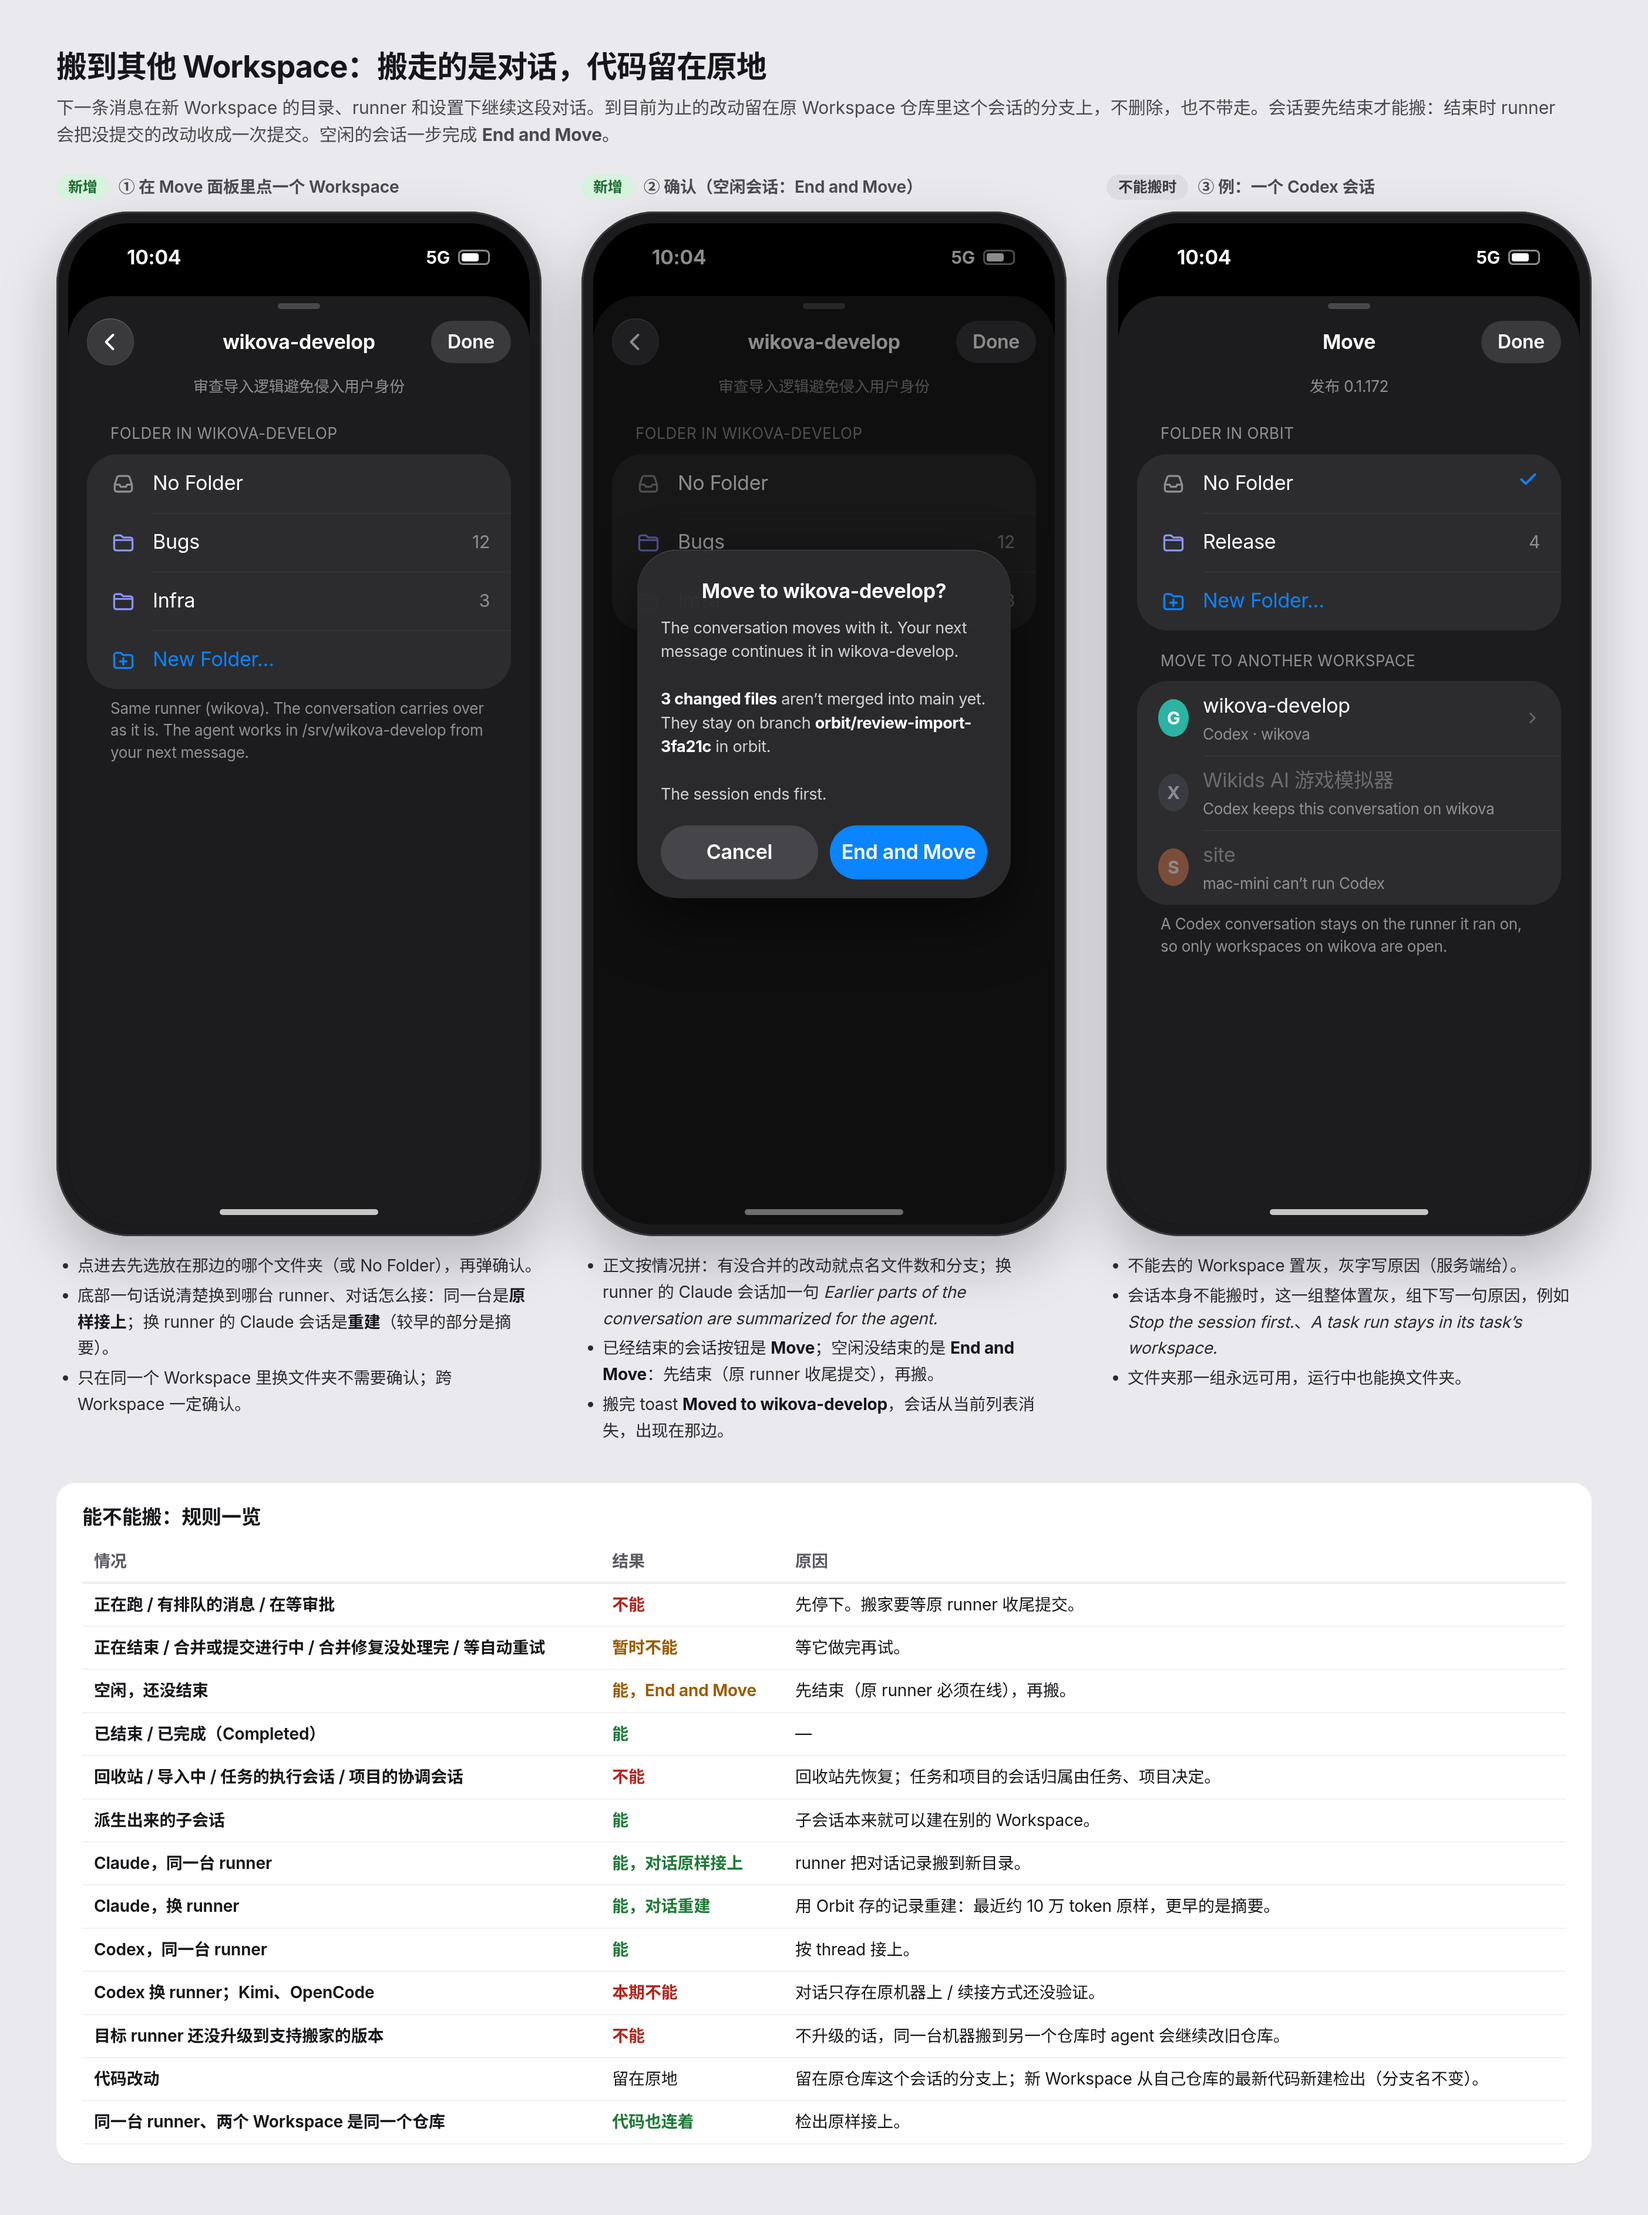
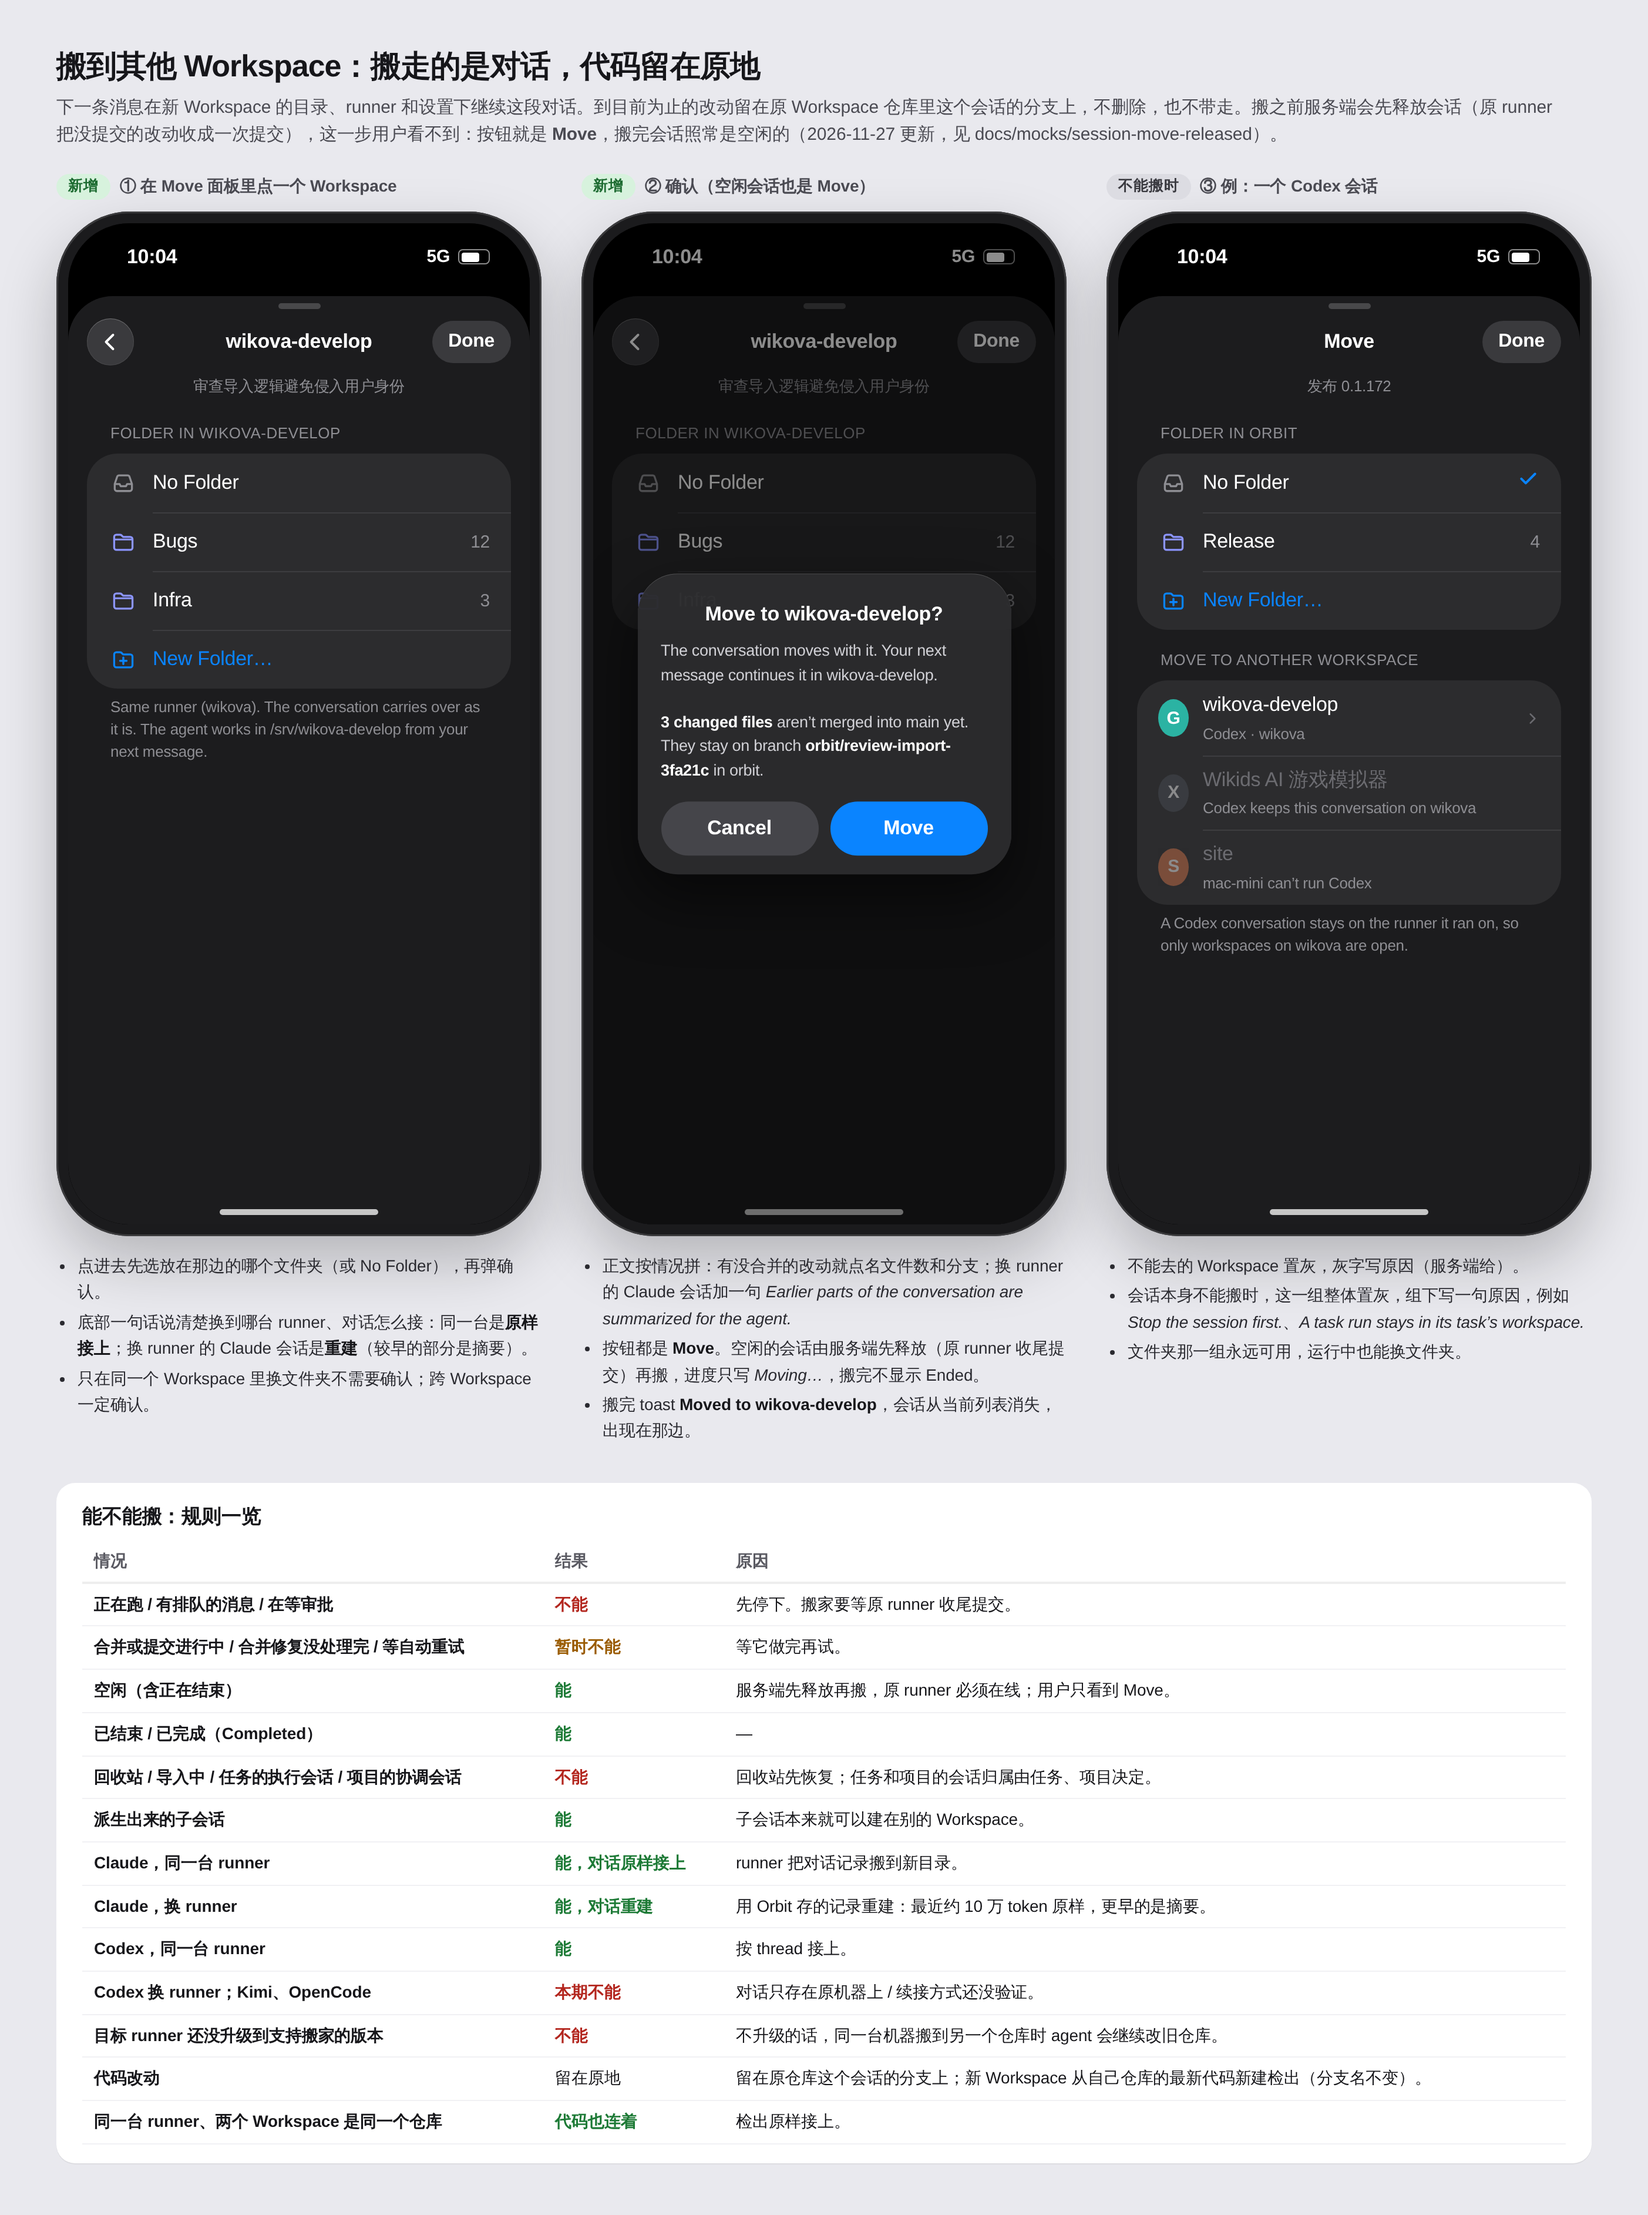
docs(mocks): the move board shows Move for an idle session; the released-look board is decided
Board 03 still drew End and Move and "The session ends first.", which the server-side release
replaced. The new board's README records the owner's answer (A and A) and what each means.

diff --git a/docs/mocks/session-move/03-move-workspace.html b/docs/mocks/session-move/03-move-workspace.html
@@ -3,7 +3,7 @@
 <link rel="stylesheet" href="board.css"><script src="icons.js"></script></head>
 <body>
 <h1>搬到其他 Workspace：搬走的是对话，代码留在原地</h1>
-<p class="lede">下一条消息在新 Workspace 的目录、runner 和设置下继续这段对话。到目前为止的改动留在原 Workspace 仓库里这个会话的分支上，不删除，也不带走。会话要先结束才能搬：结束时 runner 会把没提交的改动收成一次提交。空闲的会话一步完成 <b>End and Move</b>。</p>
+<p class="lede">下一条消息在新 Workspace 的目录、runner 和设置下继续这段对话。到目前为止的改动留在原 Workspace 仓库里这个会话的分支上，不删除，也不带走。搬之前服务端会先释放会话（原 runner 把没提交的改动收成一次提交），这一步用户看不到：按钮就是 <b>Move</b>，搬完会话照常是空闲的（2026-11-27 更新，见 docs/mocks/session-move-released）。</p>
 
 <div class="row3">
   <!-- ① drill down -->
@@ -37,7 +37,7 @@
 
   <!-- ② confirm -->
   <div class="col">
-    <div class="cap"><span class="tag new">新增</span>② 确认（空闲会话：End and Move）</div>
+    <div class="cap"><span class="tag new">新增</span>② 确认（空闲会话也是 Move）</div>
     <div class="device"><div class="screen">
       <div class="island"></div>
       <div class="status"><span>10:04</span><span class="r">5G <span class="batt"></span></span></div>
@@ -56,15 +56,14 @@
       <div class="alert" style="width:318px">
         <div class="at">Move to wikova-develop?</div>
         <div class="am">The conversation moves with it. Your next message continues it in wikova-develop.<br><br>
-          <b>3 changed files</b> aren’t merged into main yet. They stay on branch <b>orbit/review-import-3fa21c</b> in orbit.<br><br>
-          The session ends first.</div>
-        <div class="ab"><div>Cancel</div><div class="pri">End and Move</div></div>
+          <b>3 changed files</b> aren’t merged into main yet. They stay on branch <b>orbit/review-import-3fa21c</b> in orbit.</div>
+        <div class="ab"><div>Cancel</div><div class="pri">Move</div></div>
       </div>
       <div class="home"></div>
     </div></div>
     <ul class="notes">
       <li>正文按情况拼：有没合并的改动就点名文件数和分支；换 runner 的 Claude 会话加一句 <i>Earlier parts of the conversation are summarized for the agent.</i></li>
-      <li>已经结束的会话按钮是 <b>Move</b>；空闲没结束的是 <b>End and Move</b>：先结束（原 runner 收尾提交），再搬。</li>
+      <li>按钮都是 <b>Move</b>。空闲的会话由服务端先释放（原 runner 收尾提交）再搬，进度只写 <i>Moving…</i>，搬完不显示 Ended。</li>
       <li>搬完 toast <b>Moved to wikova-develop</b>，会话从当前列表消失，出现在那边。</li>
     </ul>
   </div>
@@ -109,8 +108,8 @@
   <table>
     <tr><th>情况</th><th>结果</th><th>原因</th></tr>
     <tr><td>正在跑 / 有排队的消息 / 在等审批</td><td class="no">不能</td><td>先停下。搬家要等原 runner 收尾提交。</td></tr>
-    <tr><td>正在结束 / 合并或提交进行中 / 合并修复没处理完 / 等自动重试</td><td class="mid">暂时不能</td><td>等它做完再试。</td></tr>
-    <tr><td>空闲，还没结束</td><td class="mid">能，End and Move</td><td>先结束（原 runner 必须在线），再搬。</td></tr>
+    <tr><td>合并或提交进行中 / 合并修复没处理完 / 等自动重试</td><td class="mid">暂时不能</td><td>等它做完再试。</td></tr>
+    <tr><td>空闲（含正在结束）</td><td class="ok">能</td><td>服务端先释放再搬，原 runner 必须在线；用户只看到 Move。</td></tr>
     <tr><td>已结束 / 已完成（Completed）</td><td class="ok">能</td><td>—</td></tr>
     <tr><td>回收站 / 导入中 / 任务的执行会话 / 项目的协调会话</td><td class="no">不能</td><td>回收站先恢复；任务和项目的会话归属由任务、项目决定。</td></tr>
     <tr><td>派生出来的子会话</td><td class="ok">能</td><td>子会话本来就可以建在别的 Workspace。</td></tr>

diff --git a/docs/mocks/session-move-released/README.md b/docs/mocks/session-move-released/README.md
@@ -1,0 +1,11 @@
+# Board: how a moved session reads once the move released it
+
+[board.png](board.png) (source [board.html](board.html)). Decided by the owner on 2026-11-27 ("As suggested"): **① A, ② A**.
+
+- ① A: a session a move released (`endReason` `moved`) reads exactly like an idle session that never moved, on every
+  client: no Ended mark, its idle word and glyph, and no "Session ended…" line under the conversation. It stays released,
+  so the next message resumes it.
+- ② A: no line in the conversation about where it came from; the move's own toast is enough.
+
+The original move board, [../session-move/03-move-workspace.png](../session-move/03-move-workspace.png), was redrawn the same
+day: the confirmation's button is Move for an idle session too, and "The session ends first." is gone.
